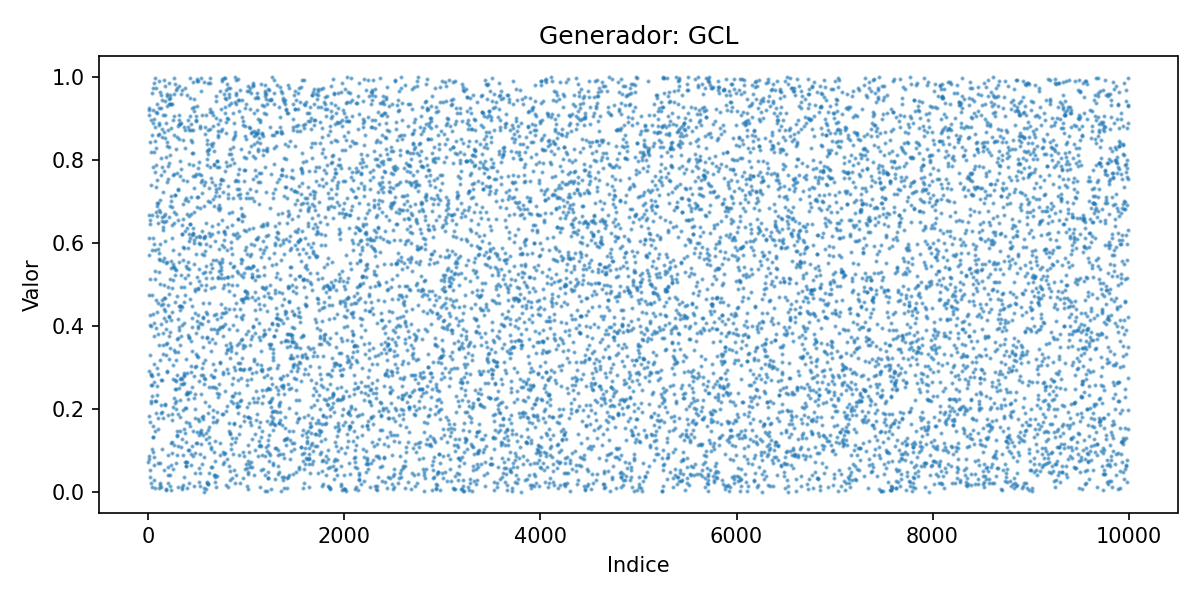
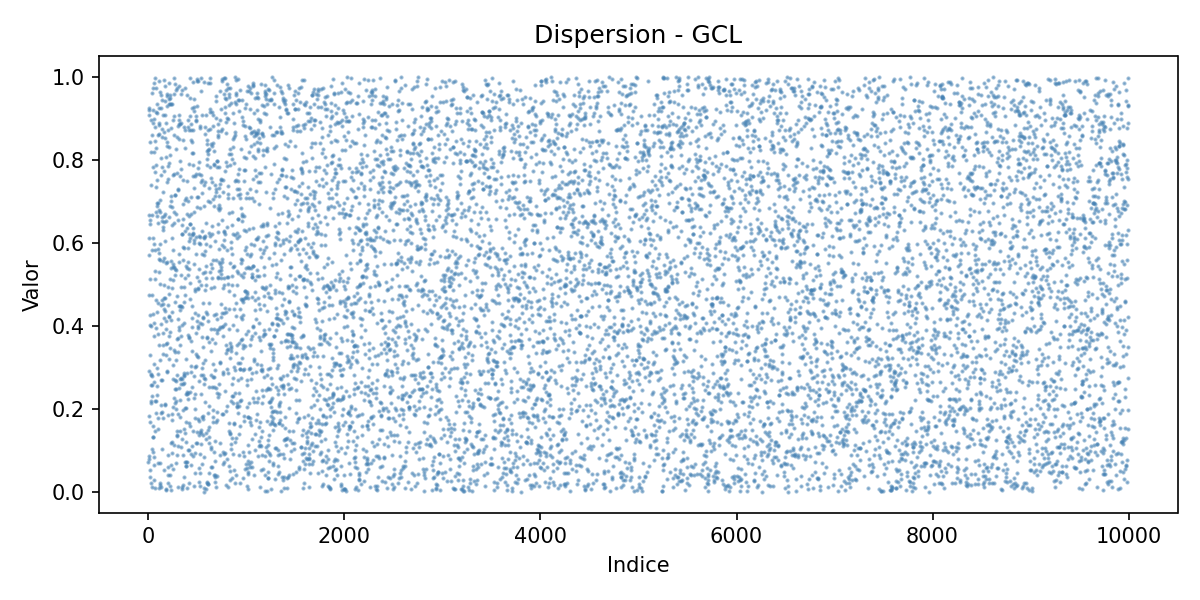
Tests y generador de resultados

Changed region(s): [[0.1233, 0.12, 0.9558, 0.81], [0.4317, 0.03, 0.6167, 0.09]]

diff --git a/tests/pruebas_estadisticas.py b/tests/pruebas_estadisticas.py
@@ -1,0 +1,210 @@
+"""
+cada prueba evalua si una muestra se comporta como una distribucion uniforme U(0,1)
+"""
+
+from pathlib import Path
+
+import numpy as np
+from scipy import stats
+import matplotlib
+
+matplotlib.use("Agg")
+import matplotlib.pyplot as plt
+
+# valores teoricos de una distribucion uniforme U(0,1)
+MEDIA_TEORICA = 0.5
+VARIANZA_TEORICA = 1 / 12
+
+
+def _validar_muestra(muestra):
+    arreglo = np.asarray(muestra, dtype=float)
+    if arreglo.size == 0:
+        raise ValueError("La muestra no puede estar vacia")
+    return arreglo
+
+
+def prueba_media(muestra):
+    datos = _validar_muestra(muestra)
+    media = float(np.mean(datos))
+    return {
+        "media": media,
+        "media_teorica": MEDIA_TEORICA,
+        "diferencia": abs(media - MEDIA_TEORICA),
+    }
+
+
+def prueba_varianza(muestra):
+    datos = _validar_muestra(muestra)
+    varianza = float(np.var(datos))
+    return {
+        "varianza": varianza,
+        "varianza_teorica": VARIANZA_TEORICA,
+        "diferencia": abs(varianza - VARIANZA_TEORICA),
+    }
+
+
+def test_chi_cuadrado(muestra, intervalos=10, alfa=0.05):
+    datos = _validar_muestra(muestra)
+    n = datos.size
+
+    bordes = np.linspace(0.0, 1.0, intervalos + 1)
+    observadas, _ = np.histogram(datos, bins=bordes)
+    esperadas = np.full(intervalos, n / intervalos)
+
+    chi2 = float(np.sum((observadas - esperadas) ** 2 / esperadas))
+    grados_libertad = intervalos - 1
+    p_value = float(stats.chi2.sf(chi2, grados_libertad))
+    acepta = p_value > alfa
+
+    return {
+        "chi2": chi2,
+        "grados_libertad": grados_libertad,
+        "p_value": p_value,
+        "alfa": alfa,
+        "resultado": "ACEPTA H0" if acepta else "RECHAZA H0",
+        "observadas": observadas,
+        "esperadas": esperadas,
+    }
+
+
+def test_corridas(muestra, alfa=0.05):
+    datos = _validar_muestra(muestra)
+    media = np.mean(datos)
+
+    # 1 si el valor esta por encima de la media, 0 si esta por debajo.
+    # Se descartan los valores exactamente iguales a la media.
+    signos = datos[datos != media] >= media
+    if signos.size < 2:
+        raise ValueError("Muestra insuficiente para el test de corridas")
+
+    n1 = int(np.sum(signos))       # valores arriba de la media
+    n2 = int(signos.size - n1)     # valores abajo de la media
+    if n1 == 0 or n2 == 0:
+        raise ValueError("Todos los valores estan del mismo lado de la media")
+
+    # Una corrida termina cada vez que cambia el signo.
+    corridas = int(1 + np.sum(signos[1:] != signos[:-1]))
+
+    n = n1 + n2
+    media_corridas = (2 * n1 * n2) / n + 1
+    var_corridas = (2 * n1 * n2 * (2 * n1 * n2 - n)) / (n**2 * (n - 1))
+
+    z = (corridas - media_corridas) / np.sqrt(var_corridas)
+    p_value = float(2 * stats.norm.sf(abs(z)))  # prueba de dos colas
+    acepta = p_value > alfa
+
+    return {
+        "corridas": corridas,
+        "corridas_esperadas": float(media_corridas),
+        "z": float(z),
+        "p_value": p_value,
+        "alfa": alfa,
+        "resultado": "ACEPTA H0" if acepta else "RECHAZA H0",
+    }
+
+
+def evaluar_generador(nombre, muestra, alfa=0.05):
+    return {
+        "nombre": nombre,
+        "n": len(muestra),
+        "media": prueba_media(muestra),
+        "varianza": prueba_varianza(muestra),
+        "chi_cuadrado": test_chi_cuadrado(muestra, alfa=alfa),
+        "corridas": test_corridas(muestra, alfa=alfa),
+    }
+
+
+def guardar_histograma(nombre, muestra, carpeta, intervalos=10):
+    datos = _validar_muestra(muestra)
+    carpeta = Path(carpeta)
+    carpeta.mkdir(parents=True, exist_ok=True)
+
+    plt.figure(figsize=(8, 4))
+    plt.hist(datos, bins=intervalos, range=(0, 1), color="steelblue",
+             edgecolor="black", alpha=0.75)
+    # Linea de frecuencia esperada para una distribucion uniforme.
+    esperada = datos.size / intervalos
+    plt.axhline(esperada, color="red", linestyle="--",
+                label=f"Esperado ({esperada:.0f})")
+    plt.title(f"Histograma - {nombre}")
+    plt.xlabel("Valor")
+    plt.ylabel("Frecuencia")
+    plt.legend()
+    plt.tight_layout()
+
+    ruta = carpeta / (nombre.lower().replace(" ", "_") + "_histograma.png")
+    plt.savefig(ruta, dpi=150)
+    plt.close()
+    return ruta
+
+
+def guardar_dispersion(nombre, muestra, carpeta):
+    """Crea y guarda un grafico de dispersion (valor vs indice)."""
+    datos = _validar_muestra(muestra)
+    carpeta = Path(carpeta)
+    carpeta.mkdir(parents=True, exist_ok=True)
+
+    plt.figure(figsize=(8, 4))
+    plt.scatter(range(datos.size), datos, s=1, alpha=0.5, color="steelblue")
+    plt.title(f"Dispersion - {nombre}")
+    plt.xlabel("Indice")
+    plt.ylabel("Valor")
+    plt.tight_layout()
+
+    ruta = carpeta / (nombre.lower().replace(" ", "_") + ".png")
+    plt.savefig(ruta, dpi=150)
+    plt.close()
+    return ruta
+
+
+def imprimir_tabla(resultados, alfa=0.05):
+    titulo = "TABLA COMPARATIVA - PRUEBAS ESTADISTICAS (U(0,1))"
+    subtitulo = (
+        f"Referencia teorica: media = 0.5 | varianza = 1/12 = 0.0833 | "
+        f"alpha = {alfa} (p > {alfa} => ACEPTA H0)"
+    )
+
+    encabezados = [
+        "Generador",
+        "Media muestral",
+        "Varianza muestral",
+        "Chi-cuadrado",
+        "p-valor Chi2",
+        "Uniformidad",
+        "Z corridas",
+        "p-valor corridas",
+        "Independencia",
+    ]
+    filas = []
+    for r in resultados:
+        filas.append([
+            r["nombre"],
+            f"{r['media']['media']:.4f}",
+            f"{r['varianza']['varianza']:.4f}",
+            f"{r['chi_cuadrado']['chi2']:.4f}",
+            f"{r['chi_cuadrado']['p_value']:.4f}",
+            r["chi_cuadrado"]["resultado"],
+            f"{r['corridas']['z']:.4f}",
+            f"{r['corridas']['p_value']:.4f}",
+            r["corridas"]["resultado"],
+        ])
+
+    anchos = [max(len(encabezados[i]), *(len(f[i]) for f in filas))
+              for i in range(len(encabezados))]
+    separador = "-+-".join("-" * a for a in anchos)
+    ancho_tabla = len(separador)
+
+    def formatear(fila):
+        return " | ".join(c.ljust(anchos[i]) for i, c in enumerate(fila))
+
+    print()
+    print(titulo.center(ancho_tabla))
+    print(subtitulo)
+    print()
+    print(formatear(encabezados))
+    print(separador)
+    for fila in filas:
+        print(formatear(fila))
+    print()
+    print("Columnas 'Uniformidad' y 'Independencia': ACEPTA H0 = compatible con U(0,1); "
+          "RECHAZA H0 = evidencia de desvio.")

diff --git a/main.py b/main.py
@@ -1,15 +1,22 @@
-import csv
 from pathlib import Path
-import matplotlib.pyplot as plt
 
 from generadores.gcl import GCL
 from generadores.metodo_cuadrados import GeneradorMetodoCuadrados
 from generadores.python_random import GeneradorMersenneTwister
+from tests.pruebas_estadisticas import (
+    evaluar_generador,
+    guardar_dispersion,
+    guardar_histograma,
+    imprimir_tabla,
+)
 
 CANTIDAD = 10_000
+ALFA = 0.05
 SEMILLA_GCL = 12345
 SEMILLA_CUADRADOS = 9731
 SEMILLA_PYTHON = 42
+CARPETA_FIGURAS = Path("salida") / "figuras"
+
 
 def crear_generadores() -> dict:
     return {
@@ -18,35 +25,60 @@ def crear_generadores() -> dict:
         "Python random": GeneradorMersenneTwister(semilla=SEMILLA_PYTHON),
     }
 
+
 def generar_muestras(generadores: dict, cant: int) -> dict[str, list[float]]:
     muestras = {}
     for nombre, generador in generadores.items():
         try:
             muestras[nombre] = generador.generar(cant)
         except ValueError as error:
-            print(f"Error en {nombre}: {error}")
+            print(f"Error al generar con {nombre}: {error}")
     return muestras
 
-def guardar_graficos(muestras: dict[str, list[float]], carpeta: Path) -> None:
-    carpeta.mkdir(parents=True, exist_ok=True)
+
+def mostrar_detalle(resultado: dict) -> None:
+    print(f"\n=== {resultado['nombre']} (n = {resultado['n']}) ===")
+
+    media = resultado["media"]
+    print(f"Media     : {media['media']:.5f} (teorica {media['media_teorica']:.5f}, "
+          f"dif {media['diferencia']:.5f})")
+
+    var = resultado["varianza"]
+    print(f"Varianza  : {var['varianza']:.5f} (teorica {var['varianza_teorica']:.5f}, "
+          f"dif {var['diferencia']:.5f})")
+
+    chi = resultado["chi_cuadrado"]
+    print(f"Chi2      : {chi['chi2']:.4f} | gl {chi['grados_libertad']} | "
+          f"p-value {chi['p_value']:.4f} -> {chi['resultado']}")
+
+    runs = resultado["corridas"]
+    print(f"Corridas  : {runs['corridas']} (esperadas {runs['corridas_esperadas']:.1f}) | "
+          f"Z {runs['z']:.4f} | p-value {runs['p_value']:.4f} -> {runs['resultado']}")
+
+
+def main() -> None:
+    generadores = crear_generadores()
+    muestras = generar_muestras(generadores, CANTIDAD)
+
+    resultados = []
     for nombre, valores in muestras.items():
         if not valores:
             continue
-        plt.figure(figsize=(8, 4))
-        plt.scatter(range(len(valores)), valores, s=1, alpha=0.5)
-        plt.title(f"Generador: {nombre}")
-        plt.xlabel("Indice")
-        plt.ylabel("Valor")
-        plt.tight_layout()
-        nombre_archivo = nombre.lower().replace(" ", "_") + ".png"
-        plt.savefig(carpeta / nombre_archivo, dpi=150)
-        plt.close()
-        print(f"Grafico guardado: {carpeta / nombre_archivo}")
+        try:
+            resultado = evaluar_generador(nombre, valores, alfa=ALFA)
+        except ValueError as error:
+            print(f"Error al evaluar {nombre}: {error}")
+            continue
+        resultados.append(resultado)
+        mostrar_detalle(resultado)
+
+        ruta_hist = guardar_histograma(nombre, valores, CARPETA_FIGURAS)
+        print(f"Histograma guardado: {ruta_hist}")
+        ruta_disp = guardar_dispersion(nombre, valores, CARPETA_FIGURAS)
+        print(f"Dispersion guardada: {ruta_disp}")
+
+    imprimir_tabla(resultados, alfa=ALFA)
 
 
 if __name__ == "__main__":
-    generadores = crear_generadores()
-    muestras = generar_muestras(generadores, CANTIDAD)
-    guardar_graficos(muestras, Path("salida") / "figuras")
-    for nombre, valores in muestras.items():
-        print(f"{nombre}: {len(valores)} valores, primeros 5 = {valores[:5]}")
+    main()
